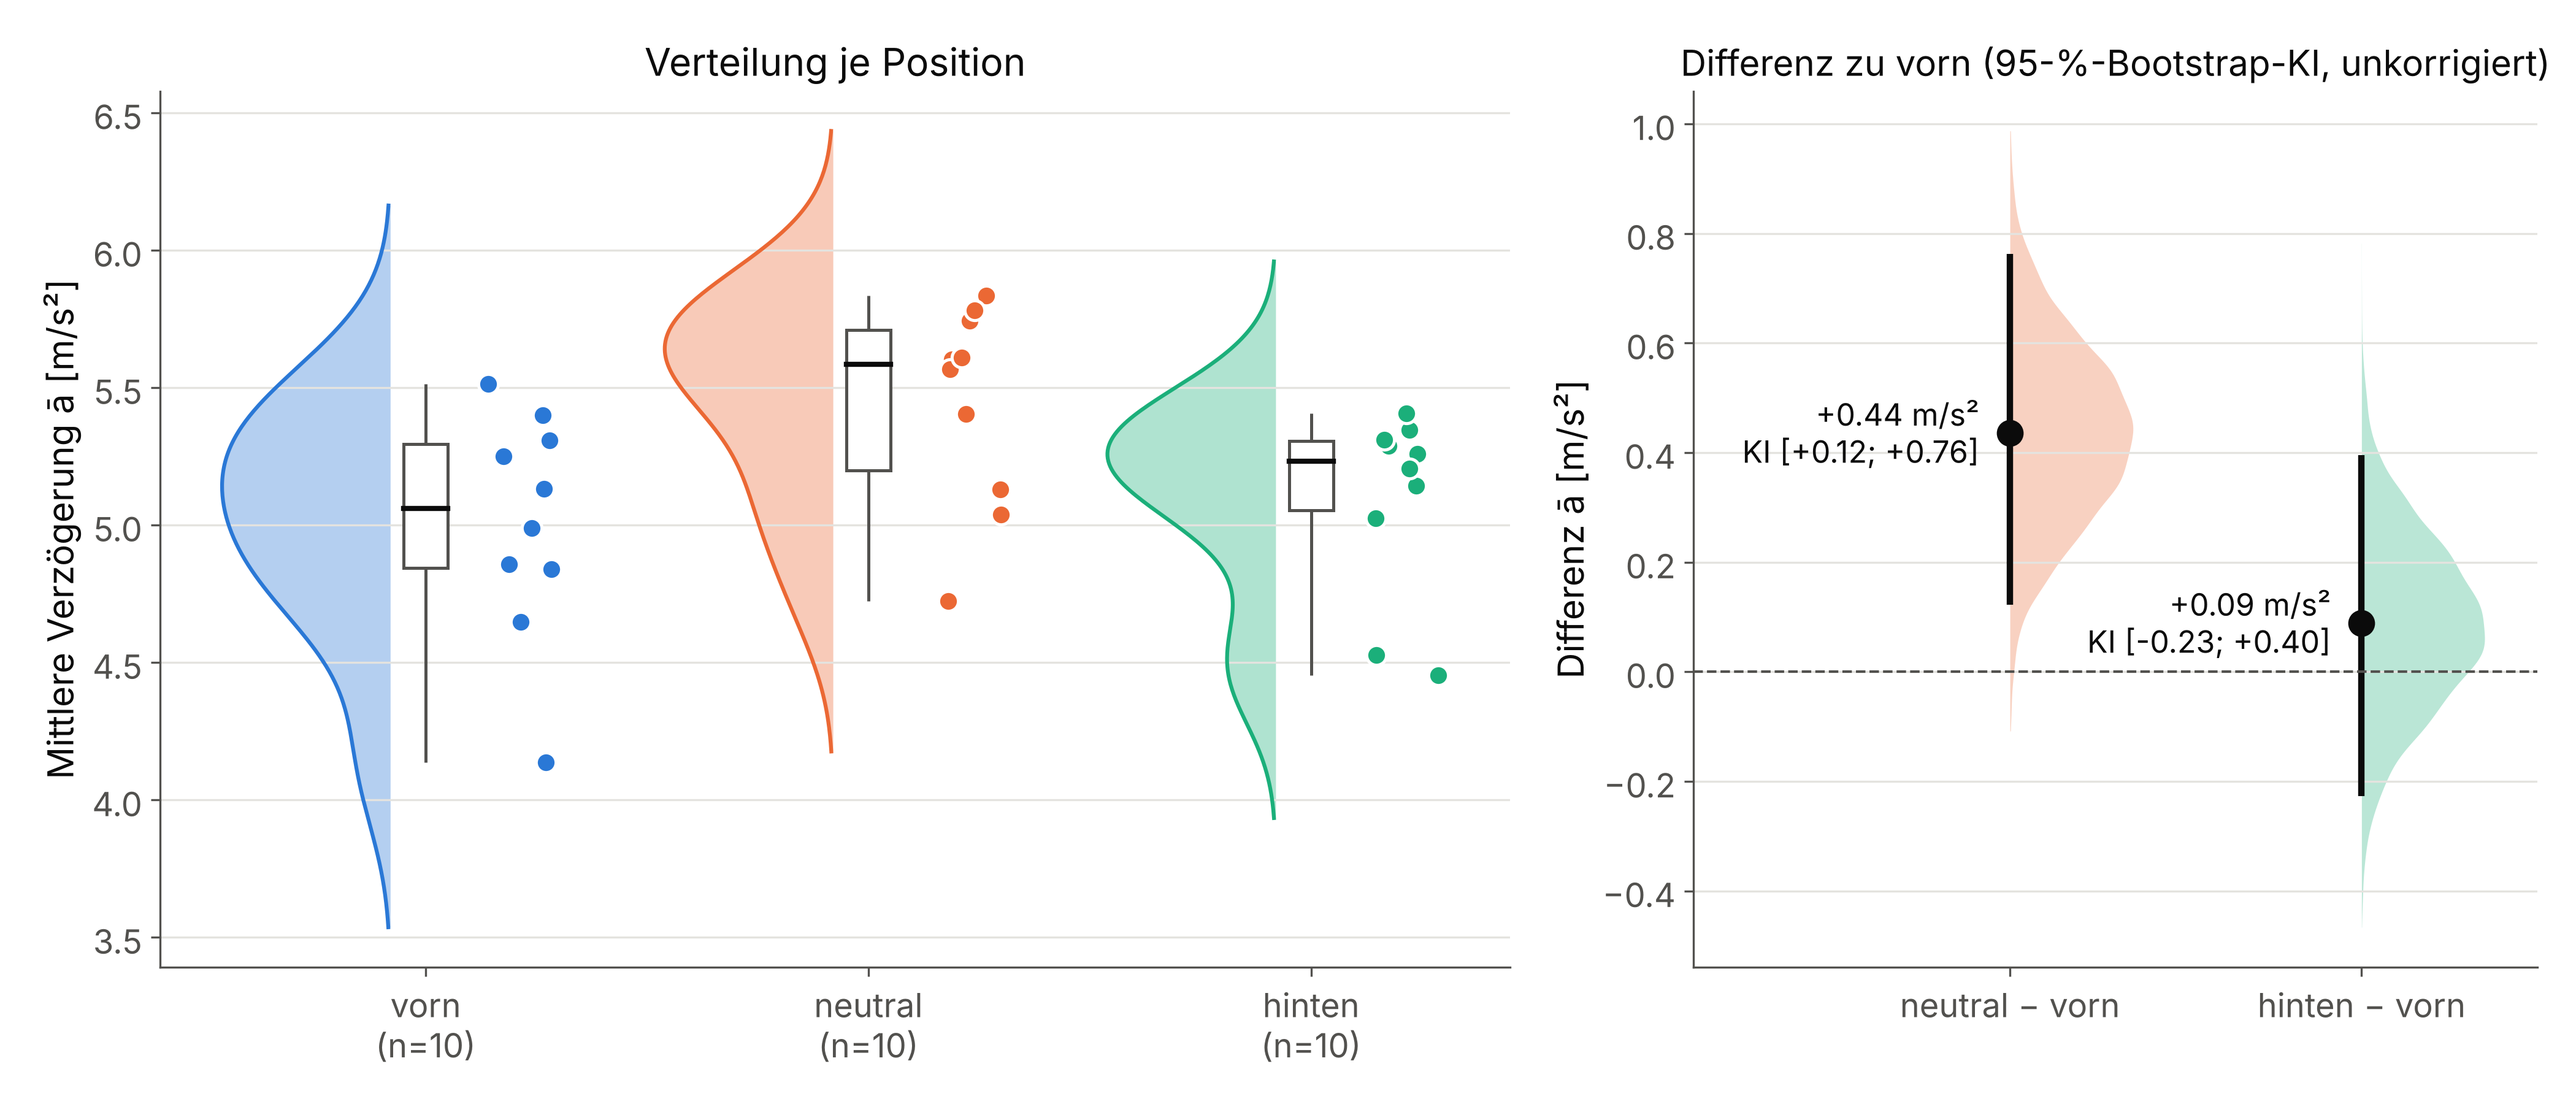
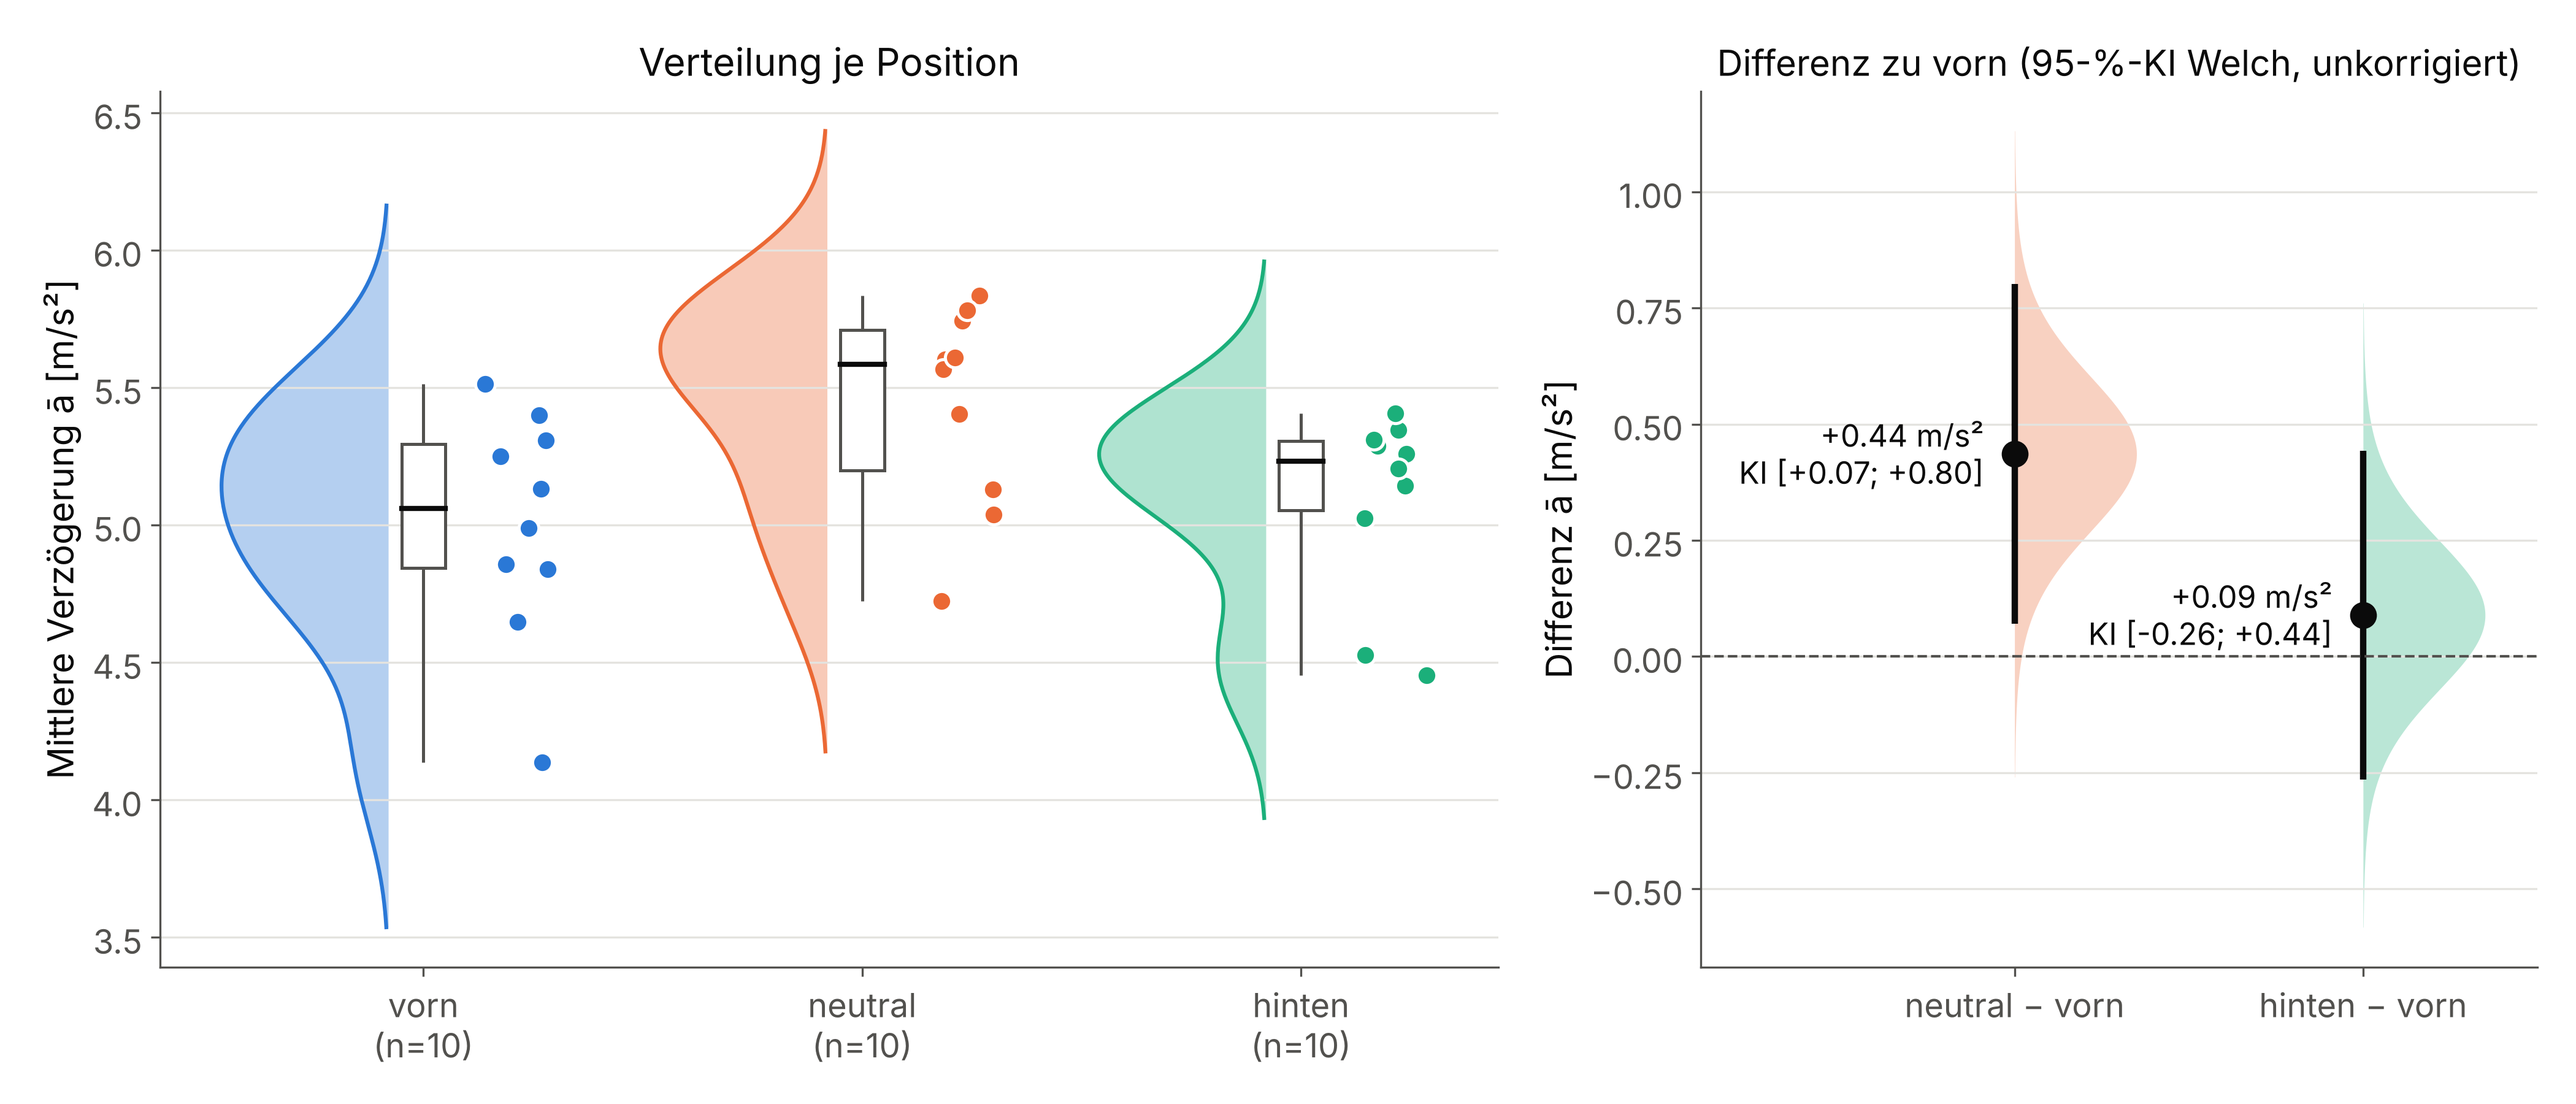
Realismus-Check Zusatzabbildungen: Rumpfneigung auf Rollphase bezogen, Welch-KI statt Bootstrap
- Vorn kippt der Rumpf ~22° bereits vor dem Bremsfenster; Bezug auf Bremsbeginn hat das
  unterschlagen (vorn 15° -> 38°, vorn-hinten jetzt n.s.)
- Perzentil-Bootstrap bei n=10 zu schmal -> Welch-Intervall in Fig 5
- README: Prüfwerte zu Lotfehler, Fensterende/Rückschwung, g-g-Diagramm

Claude-Session: https://claude.ai/code/session_01VrucjPWBajvsVALb3yb3mv

diff --git a/analysis/extra_figures.py b/analysis/extra_figures.py
@@ -1,7 +1,7 @@
 """Zusatzabbildungen (ergänzen Fig 2-4, ersetzen keine davon).
 
 Aufruf (aus dem Repo-Root):  python analysis/extra_figures.py
-Ausgabe:  figures/Fig5_Raincloud_Schaetzung.png  (ā: Verteilung + Differenzen mit Bootstrap-KI)
+Ausgabe:  figures/Fig5_Raincloud_Schaetzung.png  (ā: Verteilung + Differenzen mit Welch-KI)
           figures/Fig6_Heatmap_Trials.png        (alle 30 Trials, nach Aufnahmezeit)
           figures/Fig7_Phasenportraet.png         (Verzögerung über Geschwindigkeit)
           figures/Fig8_gg_Diagramm.png            (Längs-/Querbeschl. mit physikalischen Grenzen)
@@ -12,7 +12,7 @@ import sys
 import warnings
 
 import numpy as np
-from scipy.stats import gaussian_kde
+from scipy.stats import gaussian_kde, t as t_dist
 import matplotlib
 matplotlib.use("Agg")
 import matplotlib.pyplot as plt
@@ -43,9 +43,10 @@ def on_grid(r, key, grid):
 
 
 # --------------------------------------------------------------------------- Fig 5
-def fig_raincloud(df, n_boot=10000):
+def fig_raincloud(df):
     """Raincloud (Dichte + Box + Einzelwerte) und Schätzplot der Mittelwertsdifferenz
-    zu 'Vorne' mit 95-%-Bootstrap-Konfidenzintervall (Perzentil, unabhängige Gruppen)."""
+    zu 'Vorne' mit 95-%-KI nach Welch (unabhängige Gruppen). Ein Perzentil-Bootstrap
+    wäre bei n = 10 systematisch zu schmal."""
     rng = np.random.default_rng(7)
     g = {p: df.loc[df.Position == p, "mean"].to_numpy() for p in POS}
     fig, (ax, ax2) = plt.subplots(1, 2, figsize=(14, 6), gridspec_kw={"width_ratios": [1.6, 1]})
@@ -74,10 +75,12 @@ def fig_raincloud(df, n_boot=10000):
     ref = g["Vorne"]
     for j, p in enumerate(["Neutral", "Hinten"]):
         diff = g[p].mean() - ref.mean()
-        boot = np.array([rng.choice(g[p], len(g[p])).mean() - rng.choice(ref, len(ref)).mean()
-                         for _ in range(n_boot)])
-        ci = np.percentile(boot, [2.5, 97.5])
-        dens = gaussian_kde(boot)(yy2 := np.linspace(boot.min(), boot.max(), 300))
+        va, vb = g[p].var(ddof=1) / len(g[p]), ref.var(ddof=1) / len(ref)
+        se = np.sqrt(va + vb)
+        dof = (va + vb) ** 2 / (va ** 2 / (len(g[p]) - 1) + vb ** 2 / (len(ref) - 1))
+        ci = diff + np.array([-1, 1]) * t_dist.ppf(0.975, dof) * se
+        yy2 = diff + np.linspace(-4, 4, 300) * se   # Stichprobenverteilung der Differenz
+        dens = t_dist.pdf((yy2 - diff) / se, dof)
         dens = 0.35 * dens / dens.max()
         ax2.fill_betweenx(yy2, j, j + dens, color=COL[p], alpha=0.3, lw=0)
         ax2.vlines(j, *ci, color=INK, lw=2.5)
@@ -88,7 +91,7 @@ def fig_raincloud(df, n_boot=10000):
     ax2.set_xticks([0, 1], ["neutral − vorn", "hinten − vorn"])
     ax2.set_xlim(-0.9, 1.5)
     ax2.set_ylabel("Differenz ā [m/s²]")
-    ax2.set_title("Differenz zu vorn (95-%-Bootstrap-KI, unkorrigiert)", fontsize=14)
+    ax2.set_title("Differenz zu vorn (95-%-KI Welch, unkorrigiert)", fontsize=14)
     ax2.grid(axis="x", visible=False)
     fig.tight_layout()
     fig.savefig(os.path.join(OUT_FIG, "Fig5_Raincloud_Schaetzung.png"))
@@ -217,7 +220,7 @@ def fig_gg(trials):
 # --------------------------------------------------------------------------- Fig 9
 # Ausgangshaltung des Rumpfs (Grad aus der Senkrechten, + = nach vorn) ist NICHT gemessen,
 # nur schematisch; animiert wird die gemessene Neigungsänderung ab Bremsbeginn.
-START_LEAN = {"Vorne": 40.0, "Neutral": 20.0, "Hinten": -10.0}
+START_LEAN = {"Vorne": 30.0, "Neutral": 15.0, "Hinten": -15.0}   # Haltung in der Rollphase
 TRUNK, ARM = 0.60, 0.55   # m, schematische Segmentlängen
 
 
@@ -264,7 +267,7 @@ def fig_animation(trials, fps=20, slow=0.5):
     axc.set_ylabel("a$_x$ [m/s²]")
     axc.legend(loc="upper left", frameon=False, ncol=3, fontsize=11)
     fig.text(0.01, 0.01, f"Mittel aus je 10 Trials · Zeitlupe {slow:g}× · Pfeil = Verzögerung · "
-             "Ausgangshaltung schematisch, Neigungsänderung gemessen (Gyro)",
+             "Haltung in der Rollphase schematisch, Neigungsänderung Δθ ggü. Rollphase gemessen (Gyro)",
              fontsize=10, color=INK2)
     clock_txt = fig.text(0.99, 0.96, "", ha="right", fontsize=14, color=INK)
 

diff --git a/analysis/brake_pipeline.py b/analysis/brake_pipeline.py
@@ -161,7 +161,10 @@ def analyze_at(folder, t, a_f, w_f, fs, ic):
     a_y = a_h @ ey                         # Querbeschleunigung (für g-g-Diagramm)
     a_y = a_y - (a_y[pre].mean() if pre.any() else 0.0)
     pitch = np.degrees(np.cumsum(w_w @ ey) / fs)
-    pitch -= pitch[st]
+    # Bezug = Rollphase (1,0-0,6 s vor Bremsbeginn), nicht der Bremsbeginn selbst:
+    # bei 'Vorne' kippt der Rumpf bereits ~20° in der weichen Anbremsphase davor
+    roll = (tt > tt[st] - 1.0) & (tt < tt[st] - 0.6)
+    pitch -= pitch[roll].mean() if roll.any() else pitch[st]
     return dict(
         name=os.path.basename(folder), position=os.path.basename(folder).split()[0],
         fs=fs, t=tt, a_x=a_c, a_y=a_y, a_v=a_v, t_rel=tt - tt[st],

diff --git a/analysis/run_analysis.py b/analysis/run_analysis.py
@@ -35,7 +35,7 @@ METRICS = [
     ("t_to_peak", "Zeit bis Maximum", "s"),
     ("v0", "Anfangsgeschw. (∫a dt bis Stillstand)", "m/s"),
     ("dist", "Bremsweg (∫v dt)", "m"),
-    ("pitch_max", "Rumpfneigung nach vorn (max.)", "°"),
+    ("pitch_max", "Rumpfneigung nach vorn (max., ggü. Rollphase)", "°"),
 ]
 
 

diff --git a/README.md b/README.md
@@ -27,7 +27,7 @@ Diagnoseplot mit allen 30 Trials und Bremsfenster:
    - mittlere und maximale Verzögerung, Bremsdauer
    - v₀ = −∫a dt vom Bremsbeginn bis zum Stillstand (inkl. Rückschwung)
    - Bremsweg = ∫v dt bis v = 0
-   - Rumpf-Nickwinkel über das Gyro um die Querachse
+   - Rumpf-Nickwinkel über das Gyro um die Querachse, bezogen auf die Rollphase (1,0–0,6 s vor Bremsbeginn)
 7. **Statistik:**
    - MW ± SD (n = 10), Shapiro-Wilk und Levene
    - ANOVA bzw. Kruskal-Wallis, je nach Normalverteilung
@@ -44,7 +44,7 @@ Alle **30/30 Trials** wurden automatisch erkannt. Die Bremsfenster wurden zusät
 | Bremsdauer [s] | 1,40 ± 0,20 | 1,21 ± 0,10 | 1,12 ± 0,06 | ANOVA p < 0,001 ⚠ v₀-abhängig |
 | Bremsweg [m] | 4,48 ± 0,90 | 3,46 ± 0,48 | 3,65 ± 0,53 | ANOVA p = 0,004 ⚠ v₀-abhängig |
 | Anfangsgeschw. v₀ [km/h] | 23,5 ± 2,0 | 21,9 ± 1,5 | 20,4 ± 1,4 | ANOVA p = 0,001 |
-| Rumpfneigung nach vorn (max.) [°] | 15 ± 9 | 15 ± 6 | 42 ± 6 | ANOVA p < 0,001 |
+| Rumpfneigung nach vorn (max., ggü. Rollphase) [°] | 38 ± 8 | 16 ± 7 | 44 ± 5 | ANOVA p < 0,001, η² = 0,77; Tukey: vorn–neutral und neutral–hinten p < 0,001, vorn–hinten p = 0,18 (n.s.) |
 
 Post-hoc ā (Hinten nicht normalverteilt, Shapiro p = 0,010):
 - Vorne–Neutral: Mann-Whitney mit Bonferroni p = 0,063, Tukey p = 0,037, d = 1,1
@@ -61,13 +61,15 @@ Sensitivitätsanalyse: Mit ā' = v₀ / Zeit bis Stillstand bleibt die Reihenfol
 | Konsistenz | ā·t_B = Δv im Fenster; v₀²/(2ā) = 3,65 m vs. Bremsweg 3,86 m | – | ✅ in sich stimmig (Rest: Anfangs- und Endrampe) |
 | Rollphase | v vor der Bremsung konstant (Schwankung ≈ ±0,3 m/s, Fig. 2) | konstant, leicht abnehmend | ✅ Schwerkraftkompensation funktioniert |
 | Rückschwung | v kurz ≈ −0,7 m/s nach dem Stopp (Fig. 2) | Rumpf schwingt nach dem Stopp zurück | ✅ plausibel; deshalb wird v₀ bis zum Stillstand integriert, nicht nur im Fenster (sonst +0,3 m/s) |
-| Rumpfneigung Hinten | 42 ± 6° | aus der Rücklage über die Senkrechte nach vorn | ⚠ plausibel, aber das Handy am Bauch kann zusätzlich mit dem Weichteilgewebe kippen |
+| Rumpfneigung | vorn 38°, neutral 16°, hinten 44° (ggü. Rollphase) | Rumpf kippt beim Bremsen nach vorn, bis die Arme ihn abfangen | ⚠ plausibel. Bei **vorn** passieren ≈ 22° davon schon 0,3 s **vor** dem Bremsfenster, in der weichen Anbremsphase (a_x ≈ −0,5 m/s²). Mit Bezug auf den Bremsbeginn (alte Auswertung: 15°) war das unterschlagen. Das Handy am Bauch kann zusätzlich mit dem Weichteilgewebe (Bauchfalte beim Vorbeugen) kippen. |
+| Gyro-Lotrichtung | Fehler der Vertikalen in der Rollphase 1,5–2,3° (max. 4,8°) | Gyro-Integration über ≤ 6 s ohne nennenswerte Drift | ✅ entspricht ≤ 0,4 m/s² Einstreuung, die der Baseline-Abzug (−0,02 bis −0,15 m/s²) auffängt |
 
 ### Interpretation / Diskussionspunkte
 - **Hauptbefund:** In der **neutralen** Position ist die mittlere Verzögerung am größten (≈ +8 % gegenüber Vorne). Der Gesamttest ist signifikant (p = 0,034), der Paarvergleich Vorne–Neutral nur grenzwertig (p = 0,037–0,063, je nach Verfahren). Formulierung fürs Poster: „Tendenz, großer Effekt (d = 1,1)“, nicht „eindeutig“.
 - **Hypothese H1 nicht bestätigt:** Die Hinten-Position erreicht keine höhere ā. Nach hinten verlagert, steigt zwar die theoretische Überschlaggrenze. Da ā aber in allen Positionen bei ≈ 0,5 g und damit unter dieser Grenze liegt, begrenzt eher die Bremsdosierung des Fahrers als die Physik.
 - **Vorne:** Die Verzögerung baut sich am langsamsten auf (Fig. 3). Plausibel ist eine vorsichtigere Dosierung der Vorderradbremse, weil der KSP nahe an der Überschlaggrenze liegt (vgl. Wilson & Schmidt).
-- **Hinten:** Der Rumpf kippt beim Bremsen um ≈ 42° nach vorn. Bei ≈ 0,3 s bewegt er sich relativ zum Rad nach vorn, deshalb sinkt die gemessene Verzögerung kurz ab (Einbruch in Fig. 3). Danach fangen die Arme den Rumpf ab, und es folgt ein Spitzenwert. Über den gesamten Stopp gleicht sich das aus (gleicher Impuls).
+- **Rumpfneigung:** Vorn (38°) und hinten (44°) kippt der Rumpf ähnlich stark nach vorn (n.s.), neutral nur ≈ 16°. Vorn beginnt die Bewegung schon vor dem eigentlichen Bremsfenster, hinten erst währenddessen.
+- **Hinten:** Der Rumpf kippt beim Bremsen um ≈ 44° nach vorn. Bei ≈ 0,3 s bewegt er sich relativ zum Rad nach vorn, deshalb sinkt die gemessene Verzögerung kurz ab (Einbruch in Fig. 3). Danach fangen die Arme den Rumpf ab, und es folgt ein Spitzenwert. Über den gesamten Stopp gleicht sich das aus (gleicher Impuls).
 - **Störgrößen:**
   - (1) v₀ war nicht konstant (20–24 km/h). Bremsdauer und Bremsweg hängen stark davon ab (r = 0,76 bzw. 0,89) und sind deshalb **nicht** als Positionseffekt interpretierbar. ā korreliert kaum mit v₀ (r = −0,18).
   - (2) Die Positionen wurden **geblockt** aufgenommen (Vorne 14:51–15:05 → Neutral → Hinten 15:23–15:33). Übungs- und Ermüdungseffekte lassen sich daher nicht von der Position trennen. Das Vorne-v₀ ist am höchsten, weil diese Trials zuerst gefahren wurden.
@@ -82,11 +84,11 @@ Sensitivitätsanalyse: Mit ā' = v₀ / Zeit bis Stillstand bleibt die Reihenfol
 
 | Datei | Inhalt | Lesehilfe |
 |---|---|---|
-| `Fig5_Raincloud_Schaetzung.png` | ā je Position als Dichte, Box und Einzelwerte; dazu die Differenz zu „vorn“ mit 95-%-Bootstrap-KI (10 000 Ziehungen) | neutral − vorn = +0,44 m/s² [+0,12; +0,76]. Das KI ist **nicht** für Mehrfachvergleiche korrigiert, entspricht also Tukey (p = 0,037) und nicht Mann-Whitney mit Bonferroni (p = 0,063). |
-| `Fig6_Heatmap_Trials.png` | alle 30 a_x(t)-Verläufe, nach Uhrzeit sortiert; Strich = Ende Bremsfenster, Raute = v_Rumpf = 0 | Der Einbruch bei hinten (≈ 0,3–0,5 s) ist in praktisch allen Trials sichtbar. Farbflecken nach dem Stopp sind Rumpfschwingungen, keine Bremsung. |
+| `Fig5_Raincloud_Schaetzung.png` | ā je Position als Dichte, Box und Einzelwerte; dazu die Differenz zu „vorn“ mit 95-%-KI nach Welch (ein Perzentil-Bootstrap wäre bei n = 10 zu schmal) | neutral − vorn = +0,44 m/s² [+0,07; +0,80], hinten − vorn = +0,09 [−0,26; +0,44]. Das KI ist **nicht** für Mehrfachvergleiche korrigiert, entspricht also Tukey (p = 0,037) und nicht Mann-Whitney mit Bonferroni (p = 0,063). |
+| `Fig6_Heatmap_Trials.png` | alle 30 a_x(t)-Verläufe, nach Uhrzeit sortiert; Strich = Ende Bremsfenster, Raute = v_Rumpf = 0 | Der Einbruch bei hinten (≈ 0,3–0,5 s) ist in praktisch allen Trials sichtbar. In 26/30 Trials erreicht v_Rumpf = 0 im Mittel 0,06 s vor dem Fensterende (vorn/neutral: v ≈ −0,4 bis −0,5 m/s am Fensterende). Das Fensterende enthält also schon den Rückschwung des Rumpfs; die Sensitivitätsanalyse ā' = v₀/t_Stopp bestätigt trotzdem dieselbe Reihenfolge. Farbflecken nach dem Stopp sind Rumpfschwingungen, keine Bremsung. |
 | `Fig7_Phasenportraet.png` | Verzögerung über der Geschwindigkeit (v₀ → 0), Einzeltrials und Mittel in 1-km/h-Klassen (nur Klassen mit ≥ 5 Trials) | Die Wellen sind die Rumpfschwingung (≈ 3–4 Hz). Unter ≈ 3 km/h wird das Signal unruhig (Stillstand, Abstützen). |
-| `Fig8_gg_Diagramm.png` | Quer- gegen Längsbeschleunigung im Bremsfenster [g], mit Reifenhaftkreis (0,7–0,8 g) und Überschlaggrenze (0,55–0,65 g) | Die Trial-Mittel (ā) liegen knapp über bzw. in der Überschlaggrenze. Die Spitzen des Rumpfsignals reichen über beide Grenzen hinaus, sind also kein KSP-Wert. Die Querbeschleunigung ist ≈ 0, wie bei einer geraden Bremsung zu erwarten. |
-| `Fig9_Rumpf_Animation.gif` (+ Standbild) | Mittel je Position: Rumpfneigung und a_x, Zeitlupe 0,5× | **Die Ausgangshaltung ist schematisch** (vorn 40°, neutral 20°, hinten −10° zur Senkrechten). Gemessen ist nur die Neigungsänderung Δθ ab Bremsbeginn. Nur zur Veranschaulichung, nicht für Kennwerte verwenden. |
+| `Fig8_gg_Diagramm.png` | Quer- gegen Längsbeschleunigung im Bremsfenster [g], mit Reifenhaftkreis (0,7–0,8 g) und Überschlaggrenze (0,55–0,65 g) | Die Trial-Mittel (ā = 0,42–0,59 g) liegen knapp unterhalb bzw. am unteren Rand der Überschlaggrenze. Das Band ist für alle Positionen gleich; eine Verschiebung der Rumpfmasse ändert die Grenze nur um ≈ ±0,03 g. Anteil der Rumpf-Samples über μg: 16 % (vorn), 30 % (neutral), 26 % (hinten). Die Spitzen des Rumpfsignals reichen über beide Grenzen hinaus, sind also kein KSP-Wert. Die Querbeschleunigung ist ≈ 0, wie bei einer geraden Bremsung zu erwarten. |
+| `Fig9_Rumpf_Animation.gif` (+ Standbild) | Mittel je Position: Rumpfneigung und a_x, Zeitlupe 0,5× | **Die Haltung in der Rollphase ist schematisch** (vorn 30°, neutral 15°, hinten −15° zur Senkrechten). Gemessen ist nur die Neigungsänderung Δθ gegenüber der Rollphase. Nur zur Veranschaulichung, nicht für Kennwerte verwenden. |
 
 ## Struktur
 - `analysis/io_phyphox.py`: robustes CSV-Einlesen (Komma/Tab, Dezimalpunkt/-komma)
